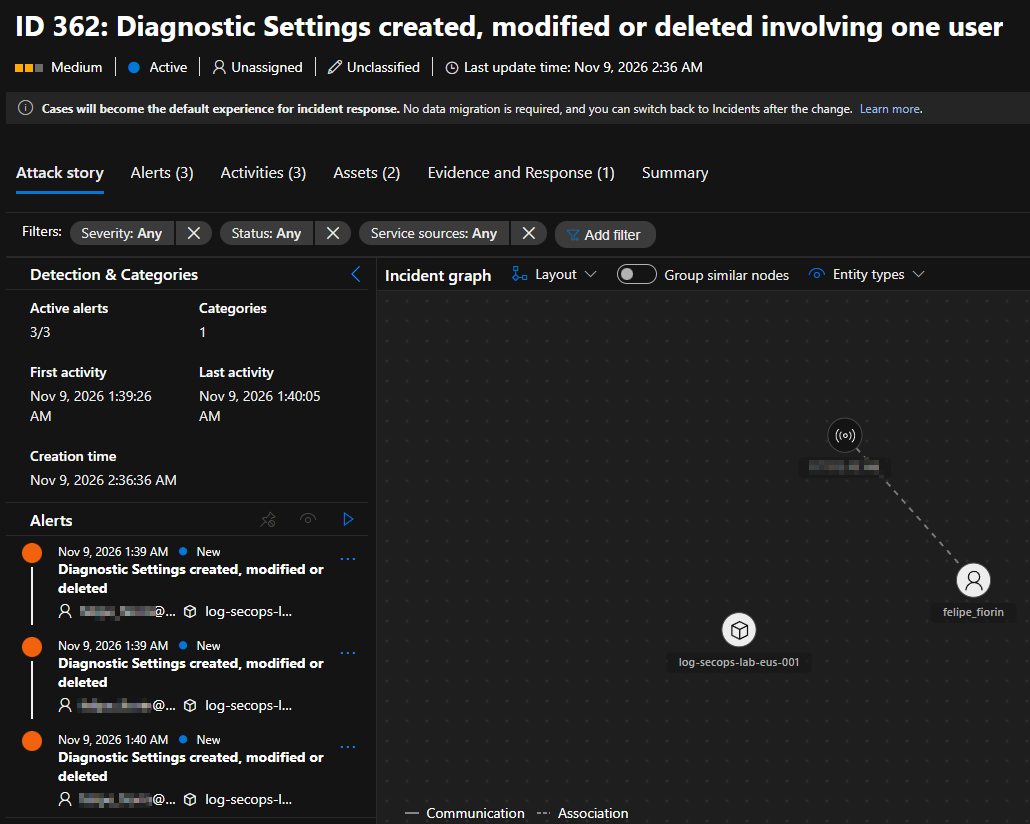
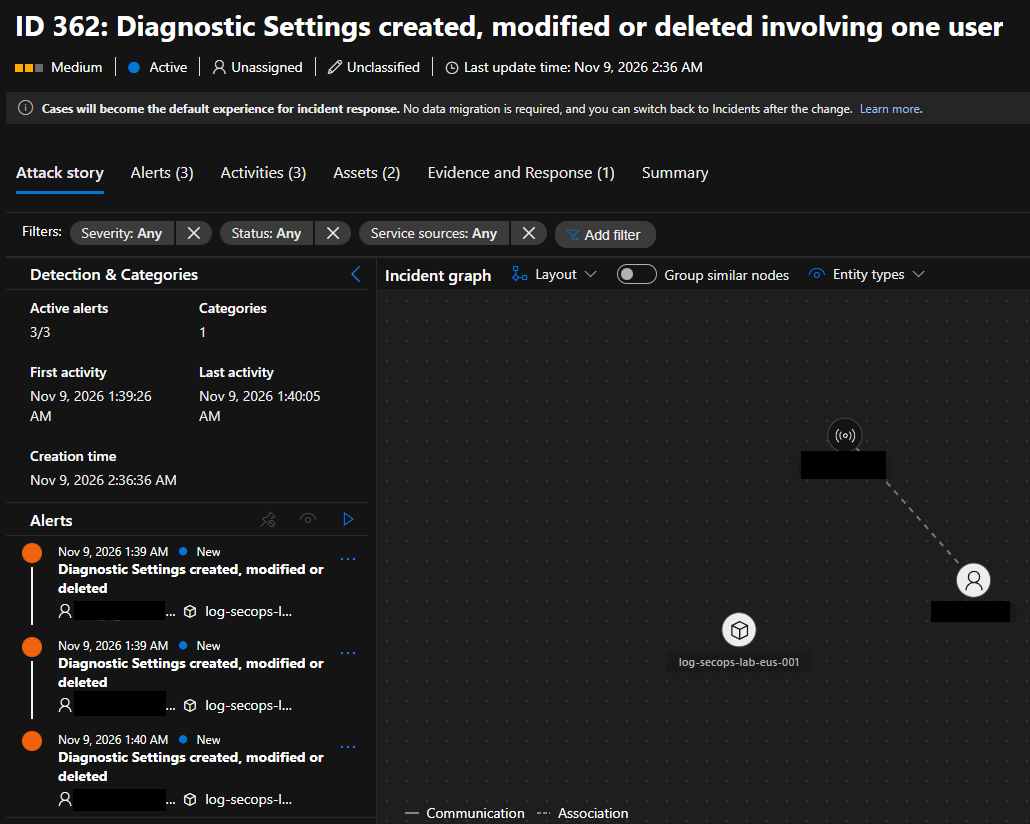
Remove unused sub_id variable and fix README typos

diff --git a/README.md b/README.md
@@ -52,7 +52,7 @@ I manually created a diagnostic setting, edited it, and deleted it. These operat
 ## Lessons learned
 - Activity Log events come in pairs. My first version raised two alerts per change, because Azure logs a `Start` event and a `Success/Failure` event for each operation. I filtered out `Start` but kept failures, since a failed attempt can be an attacker without enough permissions.  
 Lesson: Understand how the data source logs events before writing the detection.
-- The rule depends on the log it protects. If the subscripion-level diagnostic settings is deleted, logs stop being ingested, which may stop alerts and incidents.  
+- The rule depends on the log it protects. If the subscription-level diagnostic setting is deleted, logs stop being ingested, which may stop alerts and incidents.  
 Lesson: Every detection has its own limitations. You must document everything.
 - If anything is edited in the Diagnostic Settings, it only shows in the `Start` event. Neither the `Success` nor the `Failure` event shows what changed.  
 Lesson: Sometimes the context lies in a different event. A correlation must be created to show everything the responder needs.
